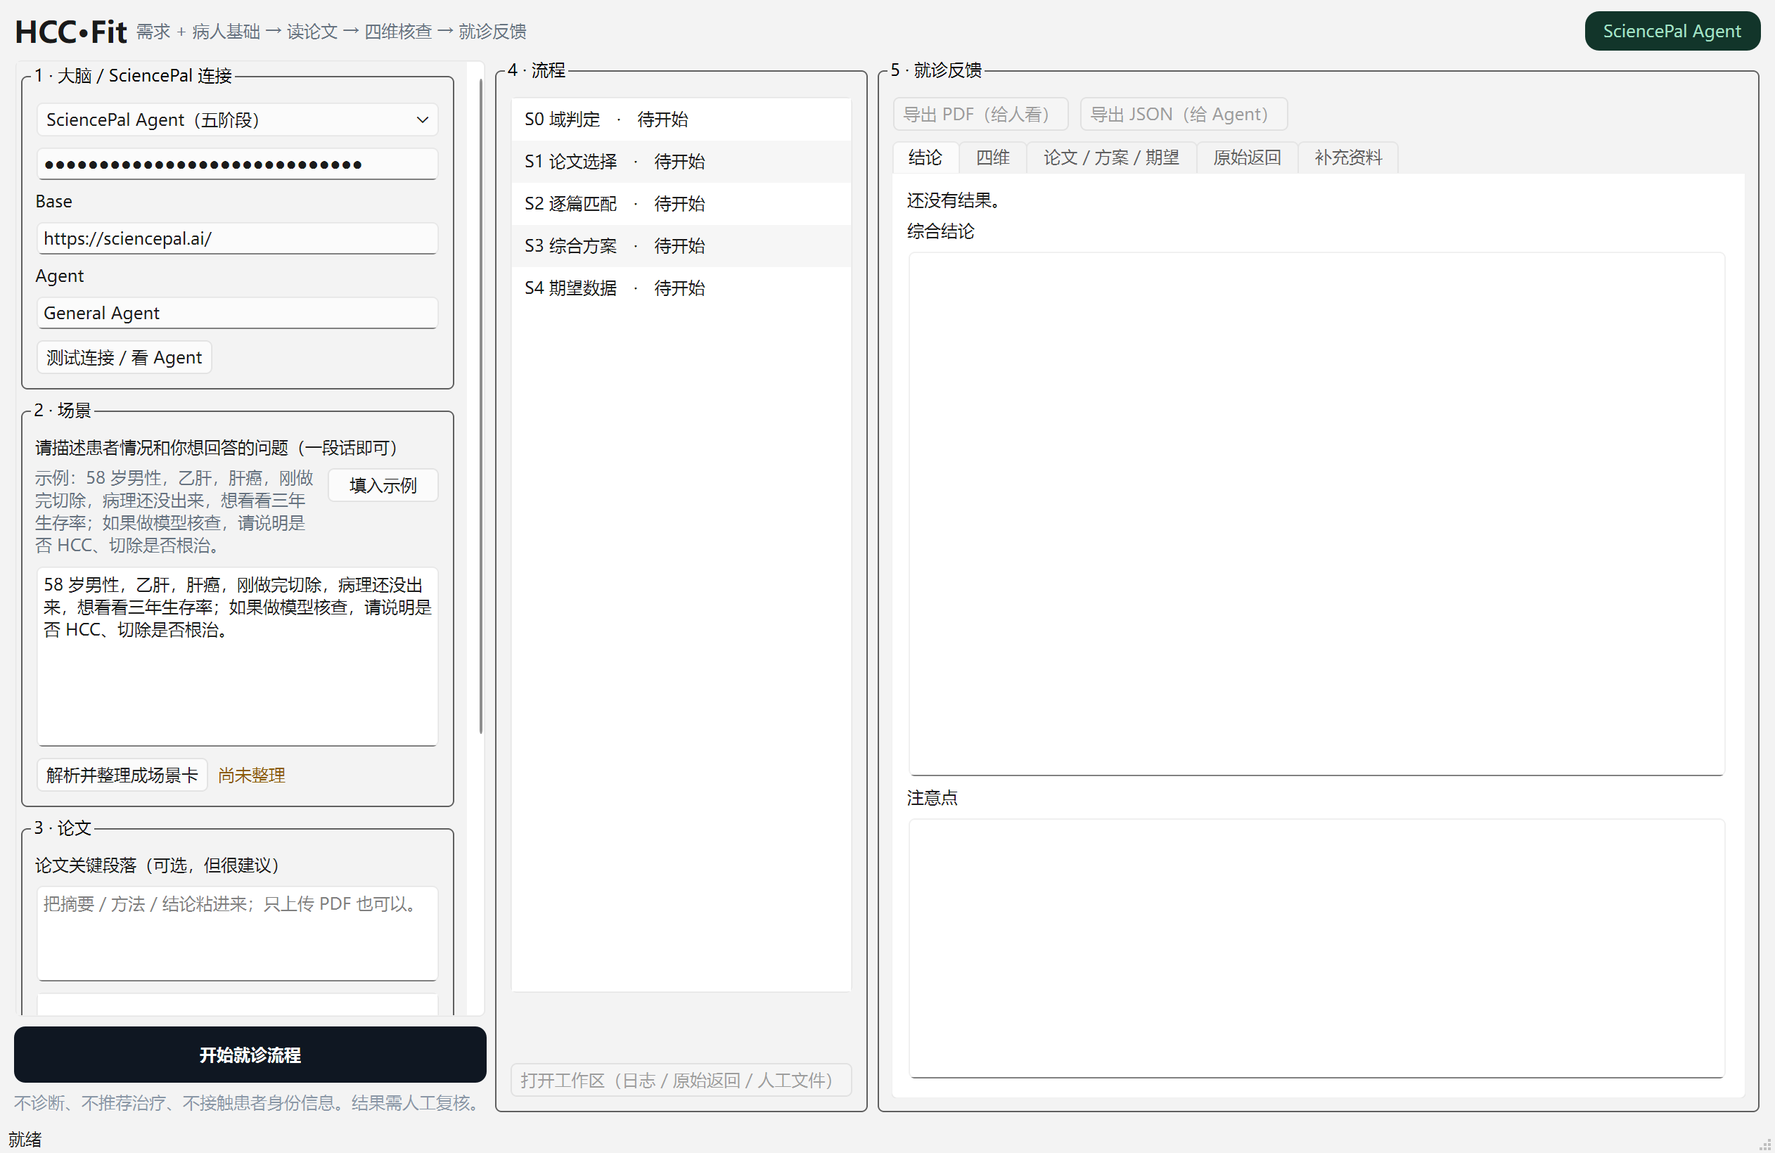
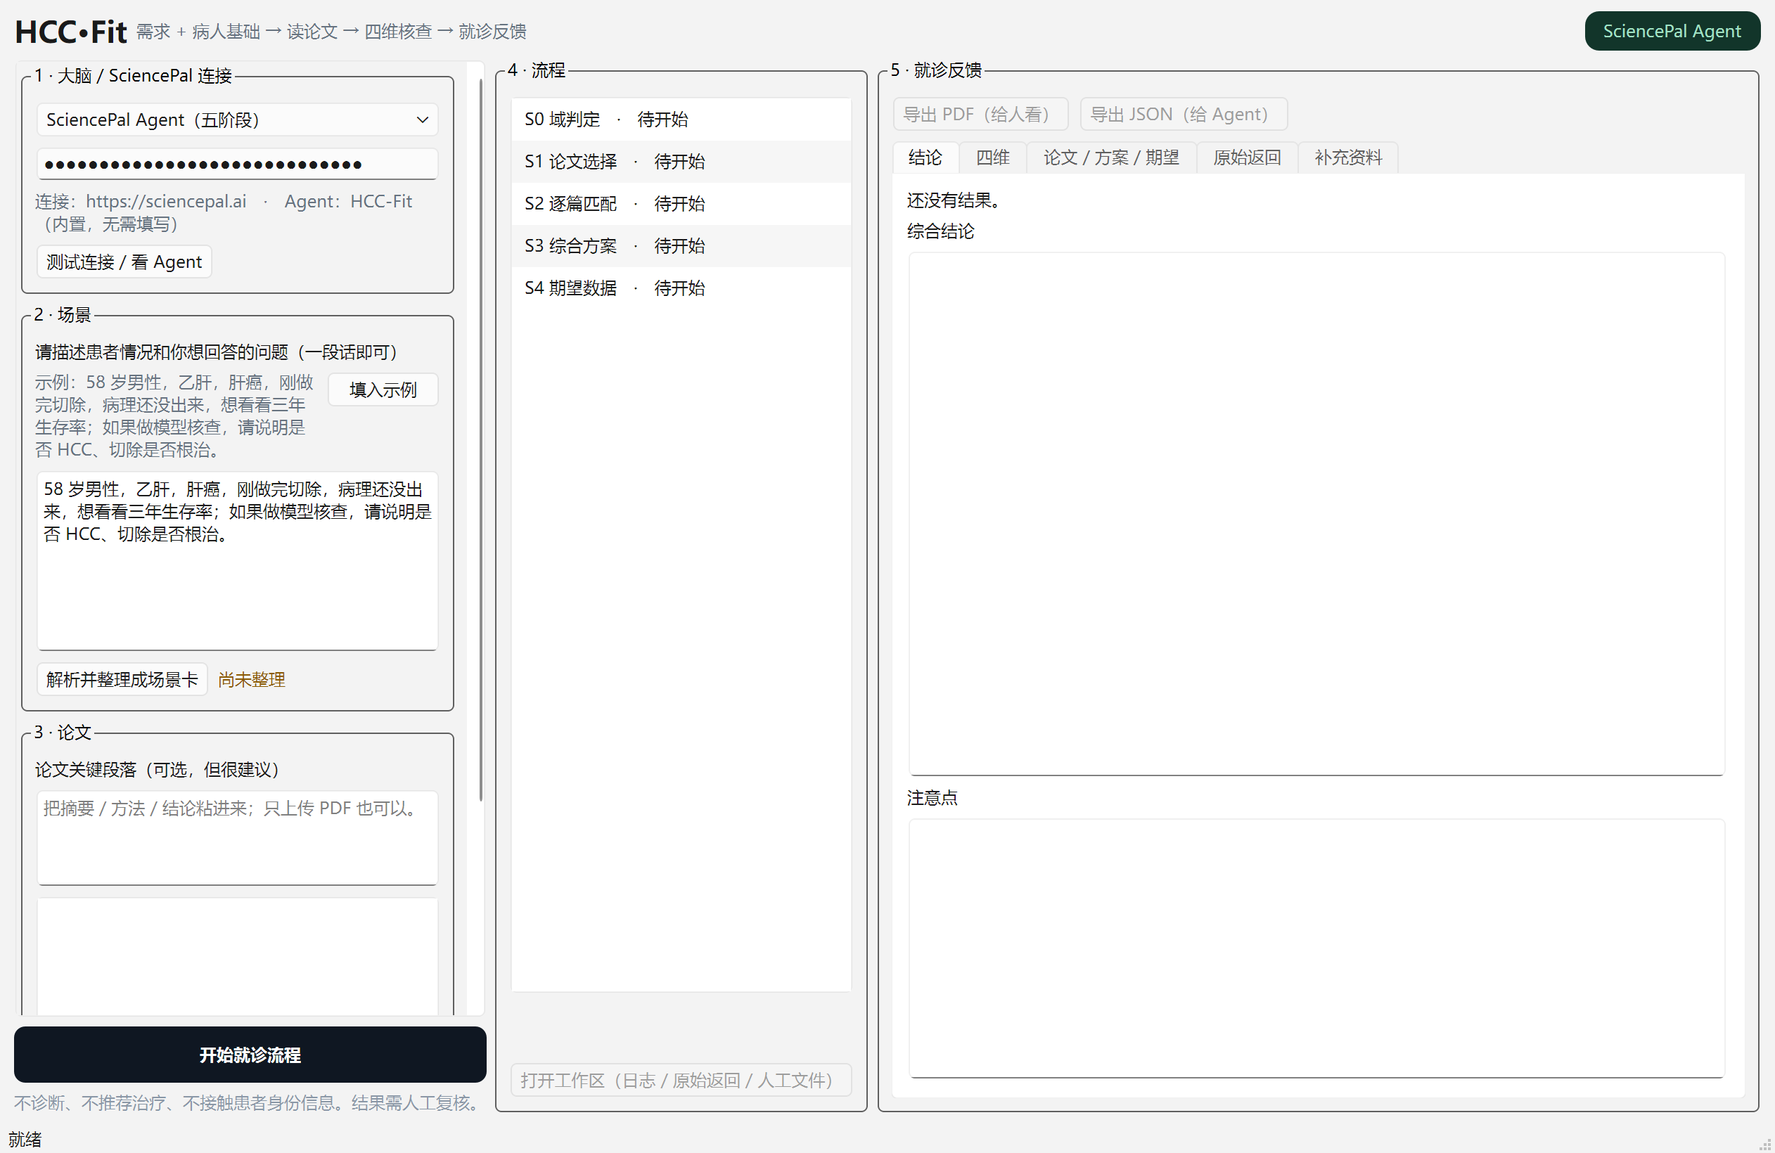
feat: 内置 Agent/Base，只填 API Key 即可启动
桌面
- core/sciencepal.py 新增 DEFAULT_AGENT_ID（HCC-Fit，61033129-…-280a）与 DEFAULT_AGENT_NAME
- SciencePalBrain 直接使用内置 agent_id（不再查 /api/agents）；SCIENCEPAL_AGENT_ID 可覆盖，设空则按名称查找
- 403/404（Key 无权使用该 Agent）自动退回按名称/平台路由
- 界面去掉 Base/Agent 输入，改为静态“连接：sciencepal.ai · Agent：HCC-Fit（内置）”
- probe 按内置 ID 校验并在列表中确认

Router
- config 新增 DEFAULT_FILTER_AGENT_ID；默认即为 HCC-Fit，balanced 只需 Key
- SCIENCEPAL_FILTER_AGENT_ID 可覆盖；显式设空则关闭内置、走自动发现/降级
- _parse 重写：支持混杂 skills/usage JSON 与多代码块，逐个扫描 keep/drop 对象

验证（真实 Key，仅 Key、无 agent 环境变量）
- 内置 agent 生效：filter 返回 completed（43–53 s），parse 出 keep/drop
- 一次 fit=2 保留；一次因候选摘要与真实论文不符而全部 drop → 触发算法回退 + degraded

测试：桌面 10 个脚本、Router 26 项全绿；重建 one-dir 并复验 --smoke

Changed region(s): [[0.0, 0.1555, 0.2472, 0.8085], [0.1545, 0.1555, 0.2163, 0.1866]]

diff --git a/desktop/core/sciencepal.py b/desktop/core/sciencepal.py
@@ -31,6 +31,10 @@ import uuid
 from brains import Brain, BrainError
 
 DEFAULT_BASE = "https://sciencepal.ai"
+# 2026-10-30 实测可用的自定义 Agent「HCC-Fit」；内置后界面不再要求填 Base/Agent。
+# 如需换 Agent：设环境变量 SCIENCEPAL_AGENT_ID（传空字符串则回退按名称查找/平台自动路由）。
+DEFAULT_AGENT_ID = "61033129-3c47-4e72-885d-bcd4bb3e280a"
+DEFAULT_AGENT_NAME = "HCC-Fit"
 
 TEXT_FIELDS = {"prompt", "message", "query", "content", "input", "text", "question"}
 ID_FIELDS = {"agent_id", "agentId", "agent"}
@@ -62,12 +66,16 @@ class SciencePalBrain(Brain):
     available = True
 
     def __init__(self, workspace, api_key=None, base=None, agent_name=None, timeout=180,
-                 strict_agent=False, **opts):
+                 strict_agent=False, agent_id=None, **opts):
         super().__init__(workspace, **opts)
         raw_key = (api_key or os.environ.get("SCIENCEPAL_API_KEY") or "")
         self.key, self._key_issue = _clean_key(raw_key)
-        self.base = (base or DEFAULT_BASE).rstrip("/")
-        self.agent_name = agent_name or "HCC-Fit"
+        self.base = (base or os.environ.get("SCIENCEPAL_BASE_URL") or DEFAULT_BASE).rstrip("/")
+        self.agent_name = agent_name or DEFAULT_AGENT_NAME
+        # 内置 Agent ID；显式传 "" 或设置 SCIENCEPAL_AGENT_ID="" 可关掉内置、改回按名称查找
+        if agent_id is None:
+            agent_id = os.environ.get("SCIENCEPAL_AGENT_ID", DEFAULT_AGENT_ID)
+        self.agent_id = str(agent_id or "").strip()
         self.timeout = timeout
         self.strict_agent = strict_agent      # 单次核查模式：找不到指定 Agent 就报错，不静默自动路由
         self._thread_id = None
@@ -205,6 +213,19 @@ class SciencePalBrain(Brain):
         items = body.get("agents") or body.get("items") or body.get("data") or []
         names = [a.get("name") for a in items if isinstance(a, dict)]
         real = [n for n in names if n]
+        if self.agent_id:
+            ids = [str(a.get("id") or a.get("agent_id") or "") for a in items if isinstance(a, dict)]
+            if any(i == self.agent_id for i in ids):
+                name = next((a.get("name") for a in items
+                             if isinstance(a, dict)
+                             and str(a.get("id") or a.get("agent_id") or "") == self.agent_id), self.agent_name)
+                return True, "内置 Agent 可用：「%s」（%s）（Key %s）" % (
+                    name or self.agent_name, self.agent_id[:8] + "…", self.key_summary()), real
+            if real:
+                return False, ("Key 可见的 Agent 里没有内置 ID %s…；可见：%s。"
+                               "如需换 Agent，设环境变量 SCIENCEPAL_AGENT_ID"
+                               % (self.agent_id[:8], "、".join(real[:8]))), real
+            return True, "能连上；/api/agents 未列出 Agent（将按内置 ID 直接调用）（Key %s）" % self.key_summary(), real
         hit = any((n or "").strip().lower() == self.agent_name.strip().lower() for n in names)
         if not real:
             hint = "能连上；/api/agents 没列出 Agent，将走平台自动路由（不影响使用）"
@@ -220,6 +241,8 @@ class SciencePalBrain(Brain):
         return [a.get("name") for a in items if isinstance(a, dict) and a.get("name")]
 
     def _agent_id(self):
+        if self.agent_id:
+            return self.agent_id          # 内置/显式指定：不再查 /api/agents
         if self._agent_id_cache is not None:
             return self._agent_id_cache
         status, body = self._json("GET", "/api/agents")
@@ -337,6 +360,15 @@ class SciencePalBrain(Brain):
                                  % json.dumps(resp, ensure_ascii=False)[:300])
             if status == 401:
                 raise BrainError("401：Key 无效或未被授权")
+            if status in (403, 404) and payload.get("agent_id"):
+                # 这个 Key 用不了内置/指定的 Agent：退回按名称查找或平台自动路由
+                self._log("agent %s 不可用（HTTP %s），改为按名称/自动路由重试"
+                          % (payload.get("agent_id"), status))
+                self.agent_id = ""
+                self._agent_id_cache = None
+                for k in ("agent_id", "agent_select_type", "agent_selection_explicit"):
+                    payload.pop(k, None)
+                continue
             if status == 422:
                 missing = self._missing_fields(resp)
                 need = [m for m in missing if m not in payload]

diff --git a/desktop/app/main_window.py b/desktop/app/main_window.py
@@ -248,12 +248,10 @@ class MainWindow(QMainWindow):
         self.key_warn.setStyleSheet("color:#c0392b;font-size:9pt;")
         bv.addWidget(self.key_warn)
         self.key.textChanged.connect(self._check_key)
-        self.base = QLineEdit("https://sciencepal.ai")
-        self.agent = QLineEdit("HCC-Fit")
-        bv.addWidget(QLabel("Base"))
-        bv.addWidget(self.base)
-        bv.addWidget(QLabel("Agent"))
-        bv.addWidget(self.agent)
+        built = QLabel("连接：https://sciencepal.ai　·　Agent：HCC-Fit（内置，无需填写）")
+        built.setWordWrap(True)
+        built.setStyleSheet("color:#66727f;font-size:9pt;")
+        bv.addWidget(built)
         ph = QHBoxLayout()
         self.probe_btn = QPushButton("测试连接 / 看 Agent")
         self.probe_btn.clicked.connect(self.probe)
@@ -446,7 +444,7 @@ class MainWindow(QMainWindow):
             return
         mode = self.current_mode()
         sp = mode in ("sciencepal", "sciencepal_hcc")
-        for w in (self.key, self.base, self.agent, self.probe_btn):
+        for w in (self.key, self.probe_btn):
             w.setEnabled(sp)
         if mode == "sciencepal_hcc":
             self.badge.setText("SciencePal · HCC-Fit 报告")
@@ -636,8 +634,6 @@ class MainWindow(QMainWindow):
     def _launch_worker(self, mode, scenario, names, ws):
         opts = {
             "api_key": self.key.text().strip(),
-            "base": self.base.text().strip() or "https://sciencepal.ai",
-            "agent_name": self.agent.text().strip() or "HCC-Fit",
             "timeout": 240 if mode == "sciencepal_hcc" else 180,
         }
         self.thread = QThread(self)
@@ -1049,9 +1045,7 @@ class MainWindow(QMainWindow):
         self.probe_msg.setText("测试中…")
         ws = paths.workspace("probe")
         self.probe_thread = QThread(self)
-        self.probe_worker = ProbeWorker(str(ws), self.key.text().strip(),
-                                        self.base.text().strip() or "https://sciencepal.ai",
-                                        self.agent.text().strip() or "HCC-Fit")
+        self.probe_worker = ProbeWorker(str(ws), self.key.text().strip(), "", "")
         self.probe_worker.moveToThread(self.probe_thread)
         self.probe_thread.started.connect(self.probe_worker.run)
         self.probe_worker.result.connect(self._on_probe)
@@ -1112,8 +1106,6 @@ class MainWindow(QMainWindow):
         idx = self.mode.findData(mode)
         if idx >= 0:
             self.mode.setCurrentIndex(idx)
-        self.base.setText(s.value("base", "https://sciencepal.ai"))
-        self.agent.setText(s.value("agent", "HCC-Fit"))
         self.patient.setPlainText(s.value("patient", ""))
         self.task.setPlainText(s.value("task", ""))
         self.outcome.setText(s.value("outcome", "1 年内复发"))
@@ -1127,8 +1119,6 @@ class MainWindow(QMainWindow):
     def _save_settings(self):
         s = QSettings("HCC-Fit", "Desktop")
         s.setValue("mode", self.current_mode())
-        s.setValue("base", self.base.text())
-        s.setValue("agent", self.agent.text())
         s.setValue("patient", self.patient.toPlainText())
         s.setValue("task", self.task.toPlainText())
         s.setValue("outcome", self.outcome.text())

diff --git a/router/hccfit/sciencepal.py b/router/hccfit/sciencepal.py
@@ -324,16 +324,56 @@ def filter_papers(scenario: dict, papers: list[dict], timeout_s: int = 90,
     return {**res, "parsed": parsed, "auto_agent": auto_name}
 
 
-def _parse(text: str):
-    s = (text or "").strip()
-    if "```" in s:
-        s = s.split("```")[1]
-        if s.startswith("json"):
-            s = s[4:]
-    i, j = s.find("{"), s.rfind("}")
-    if i < 0 or j < 0:
-        return None
+def _is_filter_result(obj) -> bool:
+    return isinstance(obj, dict) and ("keep" in obj or "drop" in obj)
+
+
+def _try_json(text: str):
     try:
-        return json.loads(s[i:j + 1])
+        return json.loads(text)
     except Exception:
         return None
+
+
+def _iter_json_objects(text: str):
+    """从混杂文本里逐个抠出可解析的 JSON 对象（agent 会掺 skills/usage 等噪音）。"""
+    decoder = json.JSONDecoder()
+    i = 0
+    while True:
+        i = text.find("{", i)
+        if i < 0:
+            return
+        try:
+            obj, end = decoder.raw_decode(text[i:])
+        except Exception:
+            i += 1
+            continue
+        yield obj
+        i += end
+
+
+def _parse(text: str):
+    """从回答里找 filter 结果：优先 ```json 代码块，其次逐个扫描对象，最后整段兜底。"""
+    s = (text or "").strip()
+    if not s:
+        return None
+    # 1) 代码块（可能不止一个）
+    parts = s.split("```")
+    for idx in range(1, len(parts), 2):
+        block = parts[idx].strip()
+        if block.lower().startswith("json"):
+            block = block[4:].strip()
+        obj = _try_json(block)
+        if _is_filter_result(obj):
+            return obj
+    # 2) 逐个扫描（跳过 skills/usage/choices 等噪音对象）
+    found = [o for o in _iter_json_objects(s) if _is_filter_result(o)]
+    if found:
+        return found[-1]
+    # 3) 整段首尾大括号兜底
+    i, j = s.find("{"), s.rfind("}")
+    if i >= 0 and j > i:
+        obj = _try_json(s[i:j + 1])
+        if _is_filter_result(obj):
+            return obj
+    return None

diff --git a/desktop/tests/test_sciencepal_client.py b/desktop/tests/test_sciencepal_client.py
@@ -24,11 +24,12 @@ def check(name, fn):
         print("FAIL  %-38s %s: %s" % (name, type(exc).__name__, exc))
 
 
-def _brain():
+def _brain(agent_id=None):
     ws = BASE / "tests" / "_tmp_sp"
     shutil.rmtree(ws, ignore_errors=True)
     ws.mkdir(parents=True, exist_ok=True)
-    return SciencePalBrain(str(ws), api_key="sp-test", timeout=5), ws
+    kwargs = {} if agent_id is None else {"agent_id": agent_id}
+    return SciencePalBrain(str(ws), api_key="sp-test", timeout=5, **kwargs), ws
 
 
 def case_asked():
@@ -76,7 +77,7 @@ def case_http_hints():
 
 def case_initiate_params():
     import json as _json
-    brain, ws = _brain()
+    brain, ws = _brain(agent_id="")   # 关掉内置，测试按名称查找
     try:
         sent = {}
 
@@ -99,11 +100,35 @@ def case_initiate_params():
     return "initiate 带 agent_id / agent_select_type"
 
 
+
+def case_builtin_agent_id():
+    import json as _json
+    brain, ws = _brain()          # 默认：内置 agent id
+    try:
+        sent = {}
+
+        def fake_req(method, path, data=None, headers=None, timeout=None):
+            if path == "/api/agents":
+                raise AssertionError("内置 Agent 时不应再查 /api/agents")
+            if path == "/api/agent/initiate":
+                sent["body"] = data or b""
+                return 200, _json.dumps({"thread_id": "t1", "agent_run_id": "r1"})
+            return 200, "{}"
+
+        brain._req = fake_req
+        brain._initiate("hello", [])
+        assert b"61033129" in sent["body"], sent["body"][:300]
+    finally:
+        shutil.rmtree(ws, ignore_errors=True)
+    return "默认直接使用内置 Agent ID（不查列表）"
+
+
 def main():
     check("追问 asked", case_asked)
     check("失败终态", case_failed)
     check("HTTP 错误提示", case_http_hints)
     check("initiate 参数", case_initiate_params)
+    check("内置 Agent ID", case_builtin_agent_id)
     ok = sum(1 for r in RESULTS if r)
     print("\n%d/%d 通过" % (ok, len(RESULTS)))
     return 0 if ok == len(RESULTS) else 1

diff --git a/router/tests/test_agent_client.py b/router/tests/test_agent_client.py
@@ -282,5 +282,26 @@ class AgentClientTests(unittest.TestCase):
         self.assertTrue(any("回退算法" in w for w in out["warnings"]), out["warnings"])
 
 
+    def test_parse_noisy_answer(self):
+        # agent 会在答案里掺 skills/usage 等 JSON，还可能有代码块
+        noisy = ("I will evaluate.\n"
+                 '{"skills":[{"name":"x"}],"next_offset":null}\n'
+                 '```json\n'
+                 '{"keep":[{"pmid":"1","fit":2,"reason":"ok"}],"drop":[]}\n'
+                 '```\n'
+                 '{"model":"m","usage":{"total_tokens":1}}')
+        got = sciencepal._parse(noisy)
+        self.assertEqual(got["keep"][0]["pmid"], "1")
+
+    def test_parse_scan_without_fence(self):
+        text = '前置说明 {"skills":[]} 然后 {"keep":[],"drop":[{"pmid":"9","reason":"no"}]} 结束'
+        got = sciencepal._parse(text)
+        self.assertEqual(got["drop"][0]["pmid"], "9")
+
+    def test_parse_garbage_returns_none(self):
+        self.assertIsNone(sciencepal._parse("只有文字，没有 JSON"))
+        self.assertIsNone(sciencepal._parse(""))
+
+
 if __name__ == "__main__":
     unittest.main(verbosity=2)

diff --git a/router/hccfit/config.py b/router/hccfit/config.py
@@ -11,5 +11,10 @@ SCIENCEPAL_BASE_URL = os.environ.get("SCIENCEPAL_BASE_URL", "https://sciencepal.
 SCIENCEPAL_API_KEY = os.environ.get("SCIENCEPAL_API_KEY", "")
 # 官方要求：模型 id 必须来自 /api/billing/available-models；留空 = 用平台默认模型。
 SCIENCEPAL_MODEL = os.environ.get("SCIENCEPAL_MODEL", "").strip()
-# 必须替换为真实的 filter agent UUID；空值会让 balanced 明确降级，而不是用占位符。
-SCIENCEPAL_FILTER_AGENT_ID = os.environ.get("SCIENCEPAL_FILTER_AGENT_ID", "").strip()
+# 内置 filter agent（2026-10-30 实测可用的自定义 Agent「HCC-Fit」）。
+# 环境变量优先；显式设空字符串（SCIENCEPAL_FILTER_AGENT_ID=）会关掉内置，改为自动发现/降级。
+DEFAULT_FILTER_AGENT_ID = "61033129-3c47-4e72-885d-bcd4bb3e280a"
+_env_filter_agent = os.environ.get("SCIENCEPAL_FILTER_AGENT_ID")
+SCIENCEPAL_FILTER_AGENT_ID = (
+    _env_filter_agent.strip() if _env_filter_agent is not None else DEFAULT_FILTER_AGENT_ID
+)

diff --git a/HANDOFF.md b/HANDOFF.md
@@ -25,7 +25,7 @@
 | PDF / JSON 导出 | ✅ |
 | 报告后补充资料 | ✅ 已改为“所需资料只读文本框 + 每条资料一条输入框”；全量重跑；新旧报告切换 |
 | Router 候选论文 | ✅ **已内置且是界面唯一入口**：进程内调用 `hccfit.strategies.run`，一键检索；外部 HTTP 代码保留但不显示 |
-| SciencePal Key / filter agent | ✅ Key 只在“1 · 大脑”一处（带格式警告）；filter agent 只认环境变量，界面不再询问 |
+| SciencePal Key / Base / Agent | ✅ 只填 Key 即可：Base 与 Agent（`HCC-Fit`，`61033129-…-280a`）内置；filter agent 同样内置；均可用环境变量覆盖 |
 | Windows one-dir 构建 | ✅ `dist/HCC-Fit`（2026-10-30 已重建，含内置 Router 与 requests） |
 | macOS | ❌ 只有方案，未实施 |
 
@@ -353,6 +353,7 @@ curl http://127.0.0.1:8080/healthz
 | **候选对话框修复** | “打开 PMC/PubMed”未选行时默认打开第一篇、并有浏览器失败兜底；标题列不再截断（行高随内容换行）；保存候选出错不再静默（弹错误框），未勾选时可一键保存全部；新增 3 项 UI 测试 → test_router_engine 9/9 |
 | **对话框修复 2** | 打开链接改为 `startfile`→Qt→webbrowser 三级兜底并给出可见反馈；标题列加宽、风险列收窄、其余列固定/可调且全部换行，行高在布局完成后统一计算（修掉超高行）；数据目录改为“探针可写”选择，`LocalLow` 不可写时自动回退（解决保存 PermissionError）；新增 test_paths（2 项） |
 | **真 Key 端到端验证（2026-10-30）** | Key 有效（51 位）；账号 6 个可用 Agent，指定的 `61033129-…-280a` 为自定义「HCC-Fit」且在列表中；`/billing/available-models` 5 个模型；balanced 实测 completed（36–41s，含真实 keep/drop）；发现 fit 尺度歧义（理由写“匹配”却给 fit=0 → 全丢）→ 提示词固定 0/1/2 含义后同一 Agent 稳定给 fit=2；keep 全空时回退算法 top-k 并置 degraded |
+| **内置 Agent** | 桌面 `DEFAULT_AGENT_ID` 与 Router `DEFAULT_FILTER_AGENT_ID` 均指向实测可用的 `HCC-Fit`；界面去掉 Base/Agent 输入，只留 Key；`SCIENCEPAL_AGENT_ID` / `SCIENCEPAL_FILTER_AGENT_ID` 可覆盖，设空则回退查找/自动路由；Key 无权使用内置 Agent（403/404）时自动退回按名称/平台路由 |
 | **接入文档** | 新增 `docs/HCC-Fit_SciencePal接入与检索说明_2026-10-30.md`（官方 8 条规则、fast vs balanced、五阶段、错误码、本次修复） |
 | **测试** | Router 新增 `test_agent_client.py`（8 项，全离线）→ 19 项；桌面新增 `test_sciencepal_client.py`（4 项）→ 9 个脚本 |
 

diff --git a/docs/HCC-Fit_SciencePal接入与检索说明_2026-10-30.md b/docs/HCC-Fit_SciencePal接入与检索说明_2026-10-30.md
@@ -99,7 +99,7 @@ POST /api/thread/{thread_id}/agent/start
 | 官方规则 | 实现位置 | 说明 |
 |---|---|---|
 | Base + Bearer | `SciencePalBrain._req` | 默认 `https://sciencepal.ai`，路径拼 `/api/...`；Key 先清洗不可见字符 |
-| 发现 Agent | `_agent_id()` → `GET /api/agents`（按名称匹配） | 找不到时自动路由；`strict_agent=True`（单次核查）则报错 |
+| 发现 Agent | `_agent_id()` 直接返回内置 `DEFAULT_AGENT_ID`（HCC-Fit） | 不查 `/api/agents`；`SCIENCEPAL_AGENT_ID` 可覆盖，设空则退回按名称查找；403/404 自动降级为名称/平台路由 |
 | initiate | `_initiate()` | multipart form 优先（支持附件）；422 缺字段自愈后重试；再退 JSON；带 `agent_id` + `agent_selection_explicit` + `agent_select_type=manual` |
 | 读流 | `_replay_stream(after_index=0)` | 轮询完成后从头重放；按工具事件分段取最后一段正文 |
 | 终态 | `_poll()` | completed/finished → 取正文；failed/error/stopped → 报错；**asked → 明确报错**（不空等） |
@@ -111,7 +111,7 @@ POST /api/thread/{thread_id}/agent/start
 
 | 官方规则 | 实现位置 | 说明 |
 |---|---|---|
-| initiate | `run_agent()` | form-data：`agent_id/prompt/stream=true/agent_select_type=manual`；`model_name` 仅在配置了 `SCIENCEPAL_MODEL` 时传 |
+| initiate | `run_agent()` | form-data：`agent_id/prompt/stream=true/agent_select_type=manual`；`agent_id` 默认取 `DEFAULT_FILTER_AGENT_ID`（HCC-Fit）；`model_name` 仅在配置时传 |
 | 读流 | `_stream_text(after_index=0)` | 立刻订阅 + 从头重放；跳过 status/tool 事件；`[DONE]` 结束 |
 | 终态 | `_wait_terminal()` | completed/finished；failed/error/stopped → 报错；asked → 明确报错 |
 | 回退 | `_answer_from_run()` / 再重放 | 流为空时先看 run 里的 messages，再重放一次 |

diff --git a/router/README.md b/router/README.md
@@ -17,8 +17,9 @@ export SCIENCEPAL_API_KEY=sp_live_xxx
 export SCIENCEPAL_BASE_URL=https://sciencepal.ai
 # 可选：模型 id 必须来自 /api/billing/available-models；留空=平台默认（推荐）
 export SCIENCEPAL_MODEL=
-# balanced 需要：真实 filter agent UUID；留空则 balanced 明确降级为 fast
-export SCIENCEPAL_FILTER_AGENT_ID=xxxxxxxx-xxxx-xxxx-xxxx-xxxxxxxxxxxx
+# 可选：filter agent 已内置（HCC-Fit，61033129-…-280a）；显式设置可覆盖，
+# 设为空字符串则关闭内置、退回自动发现/降级
+# export SCIENCEPAL_FILTER_AGENT_ID=
 
 # 可选：服务鉴权。默认留空 = 不鉴权（本机使用无需 token）
 export HCCFIT_ROUTER_TOKEN=
